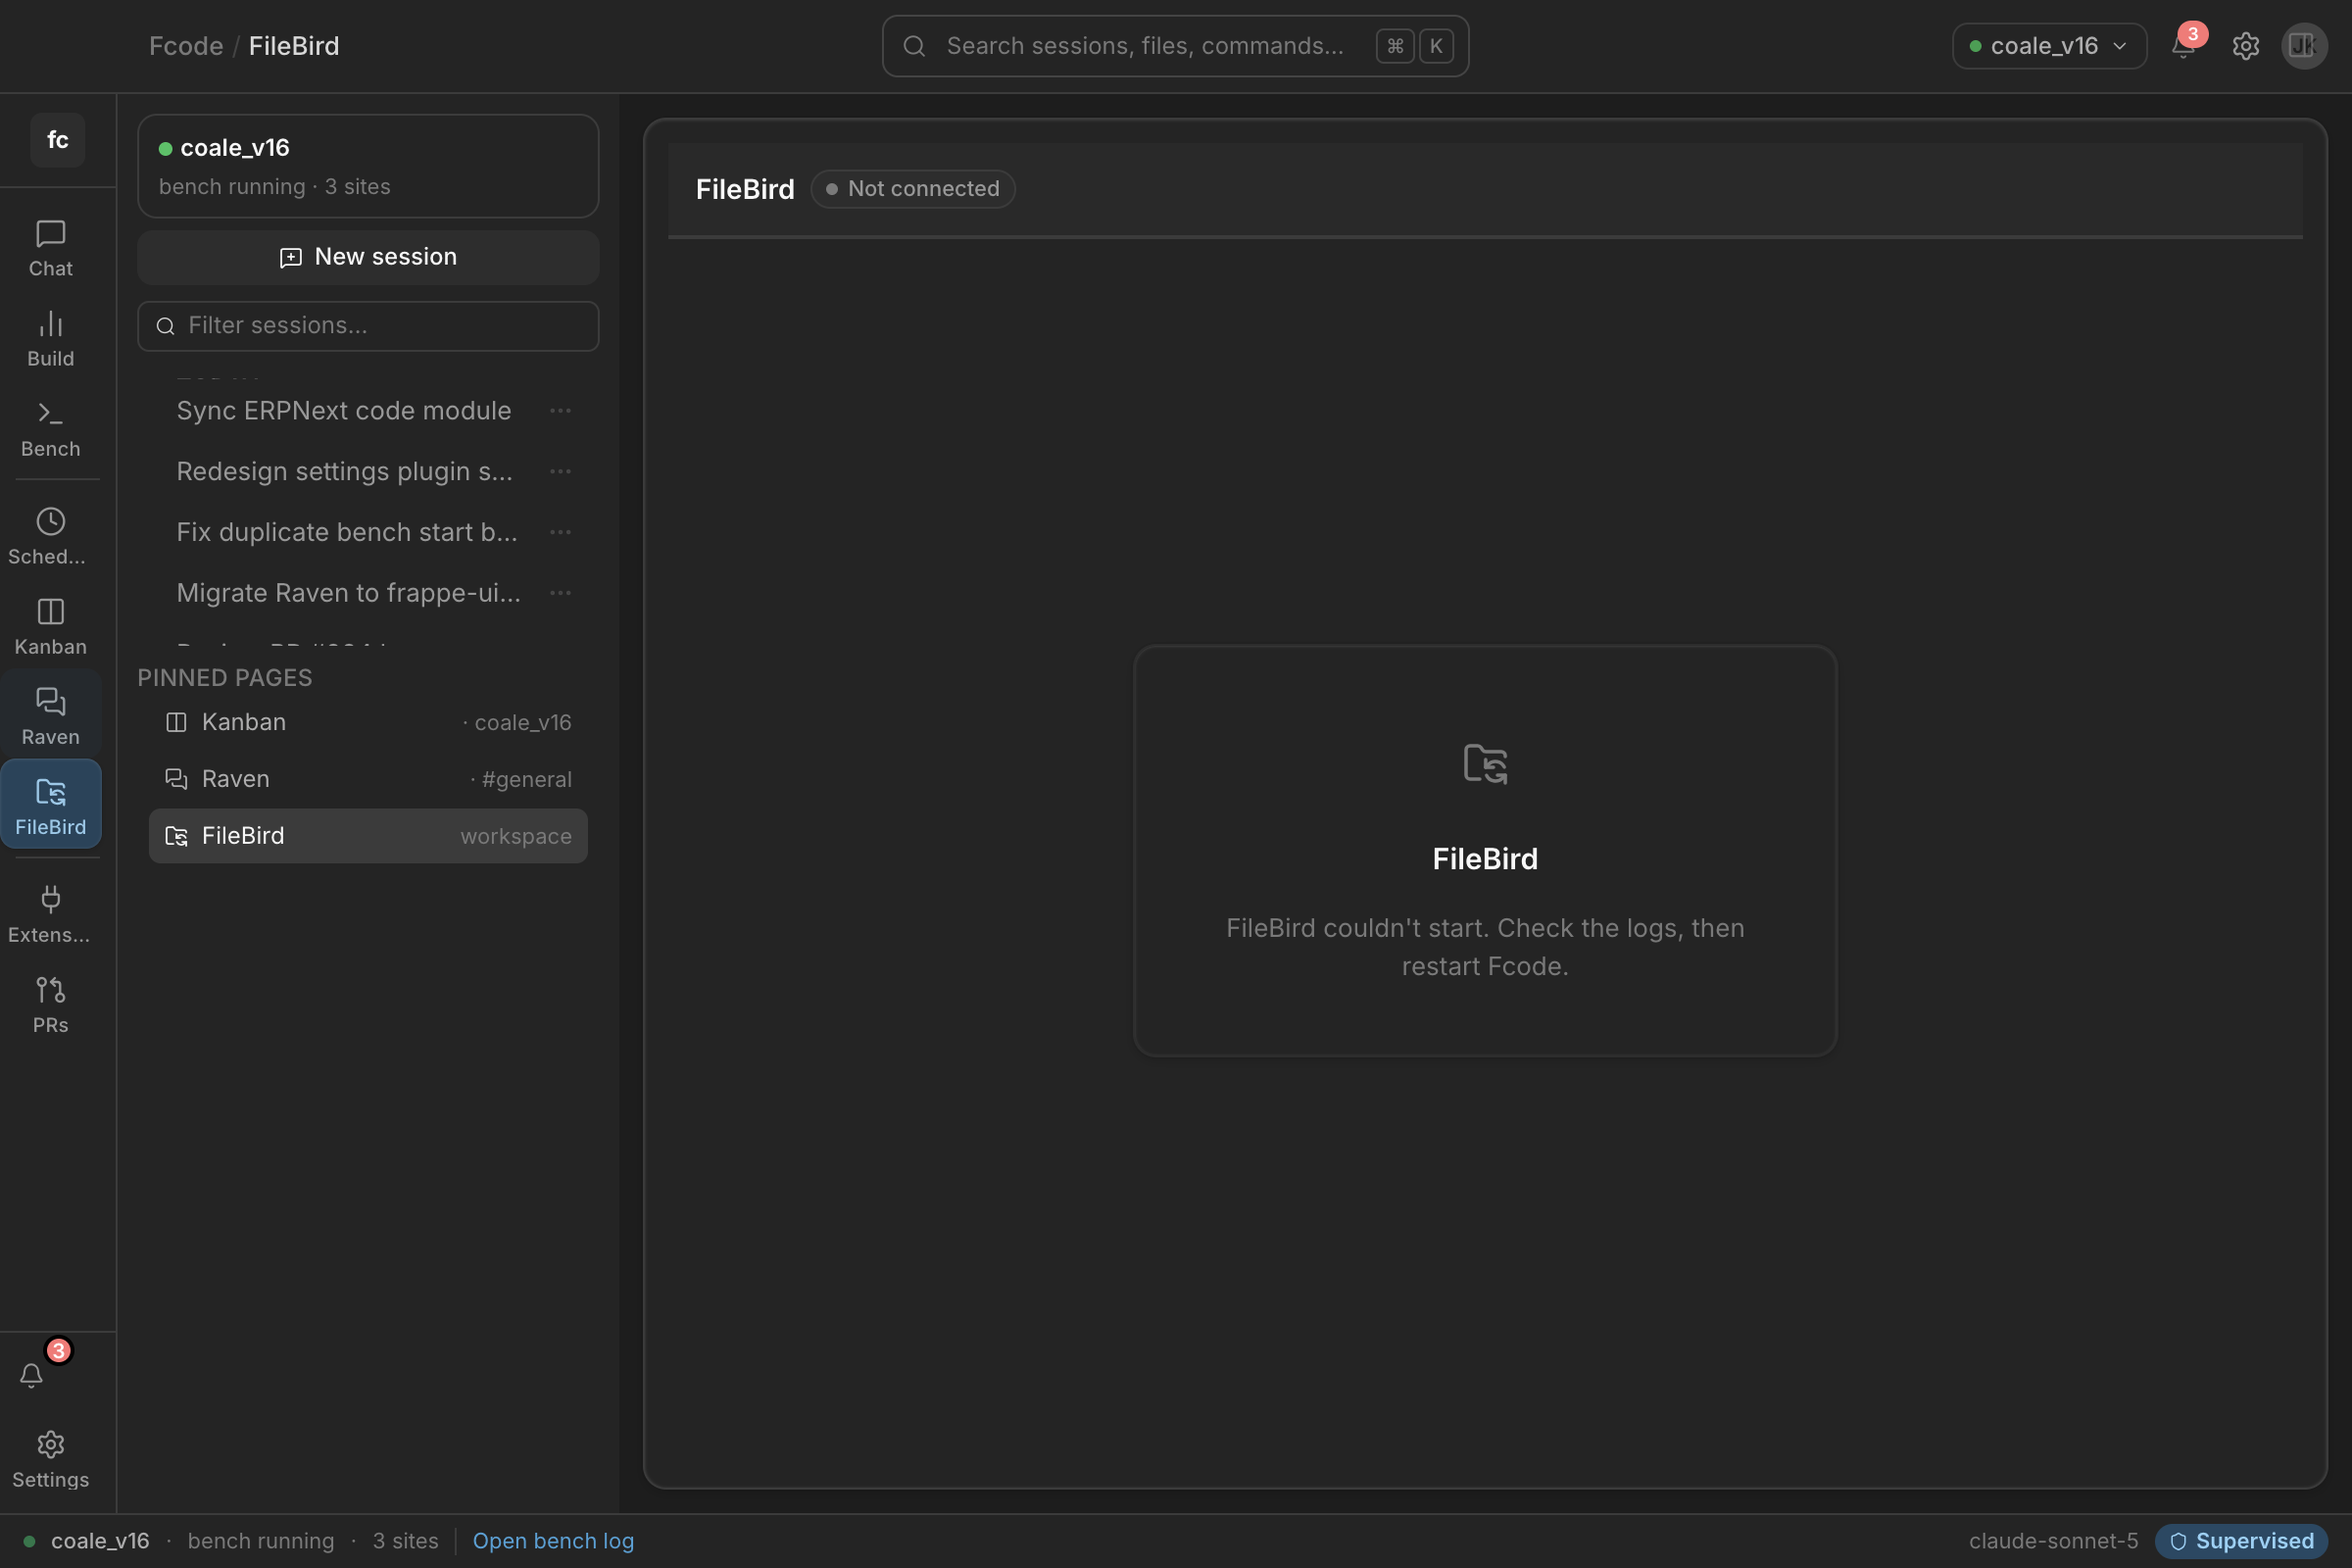
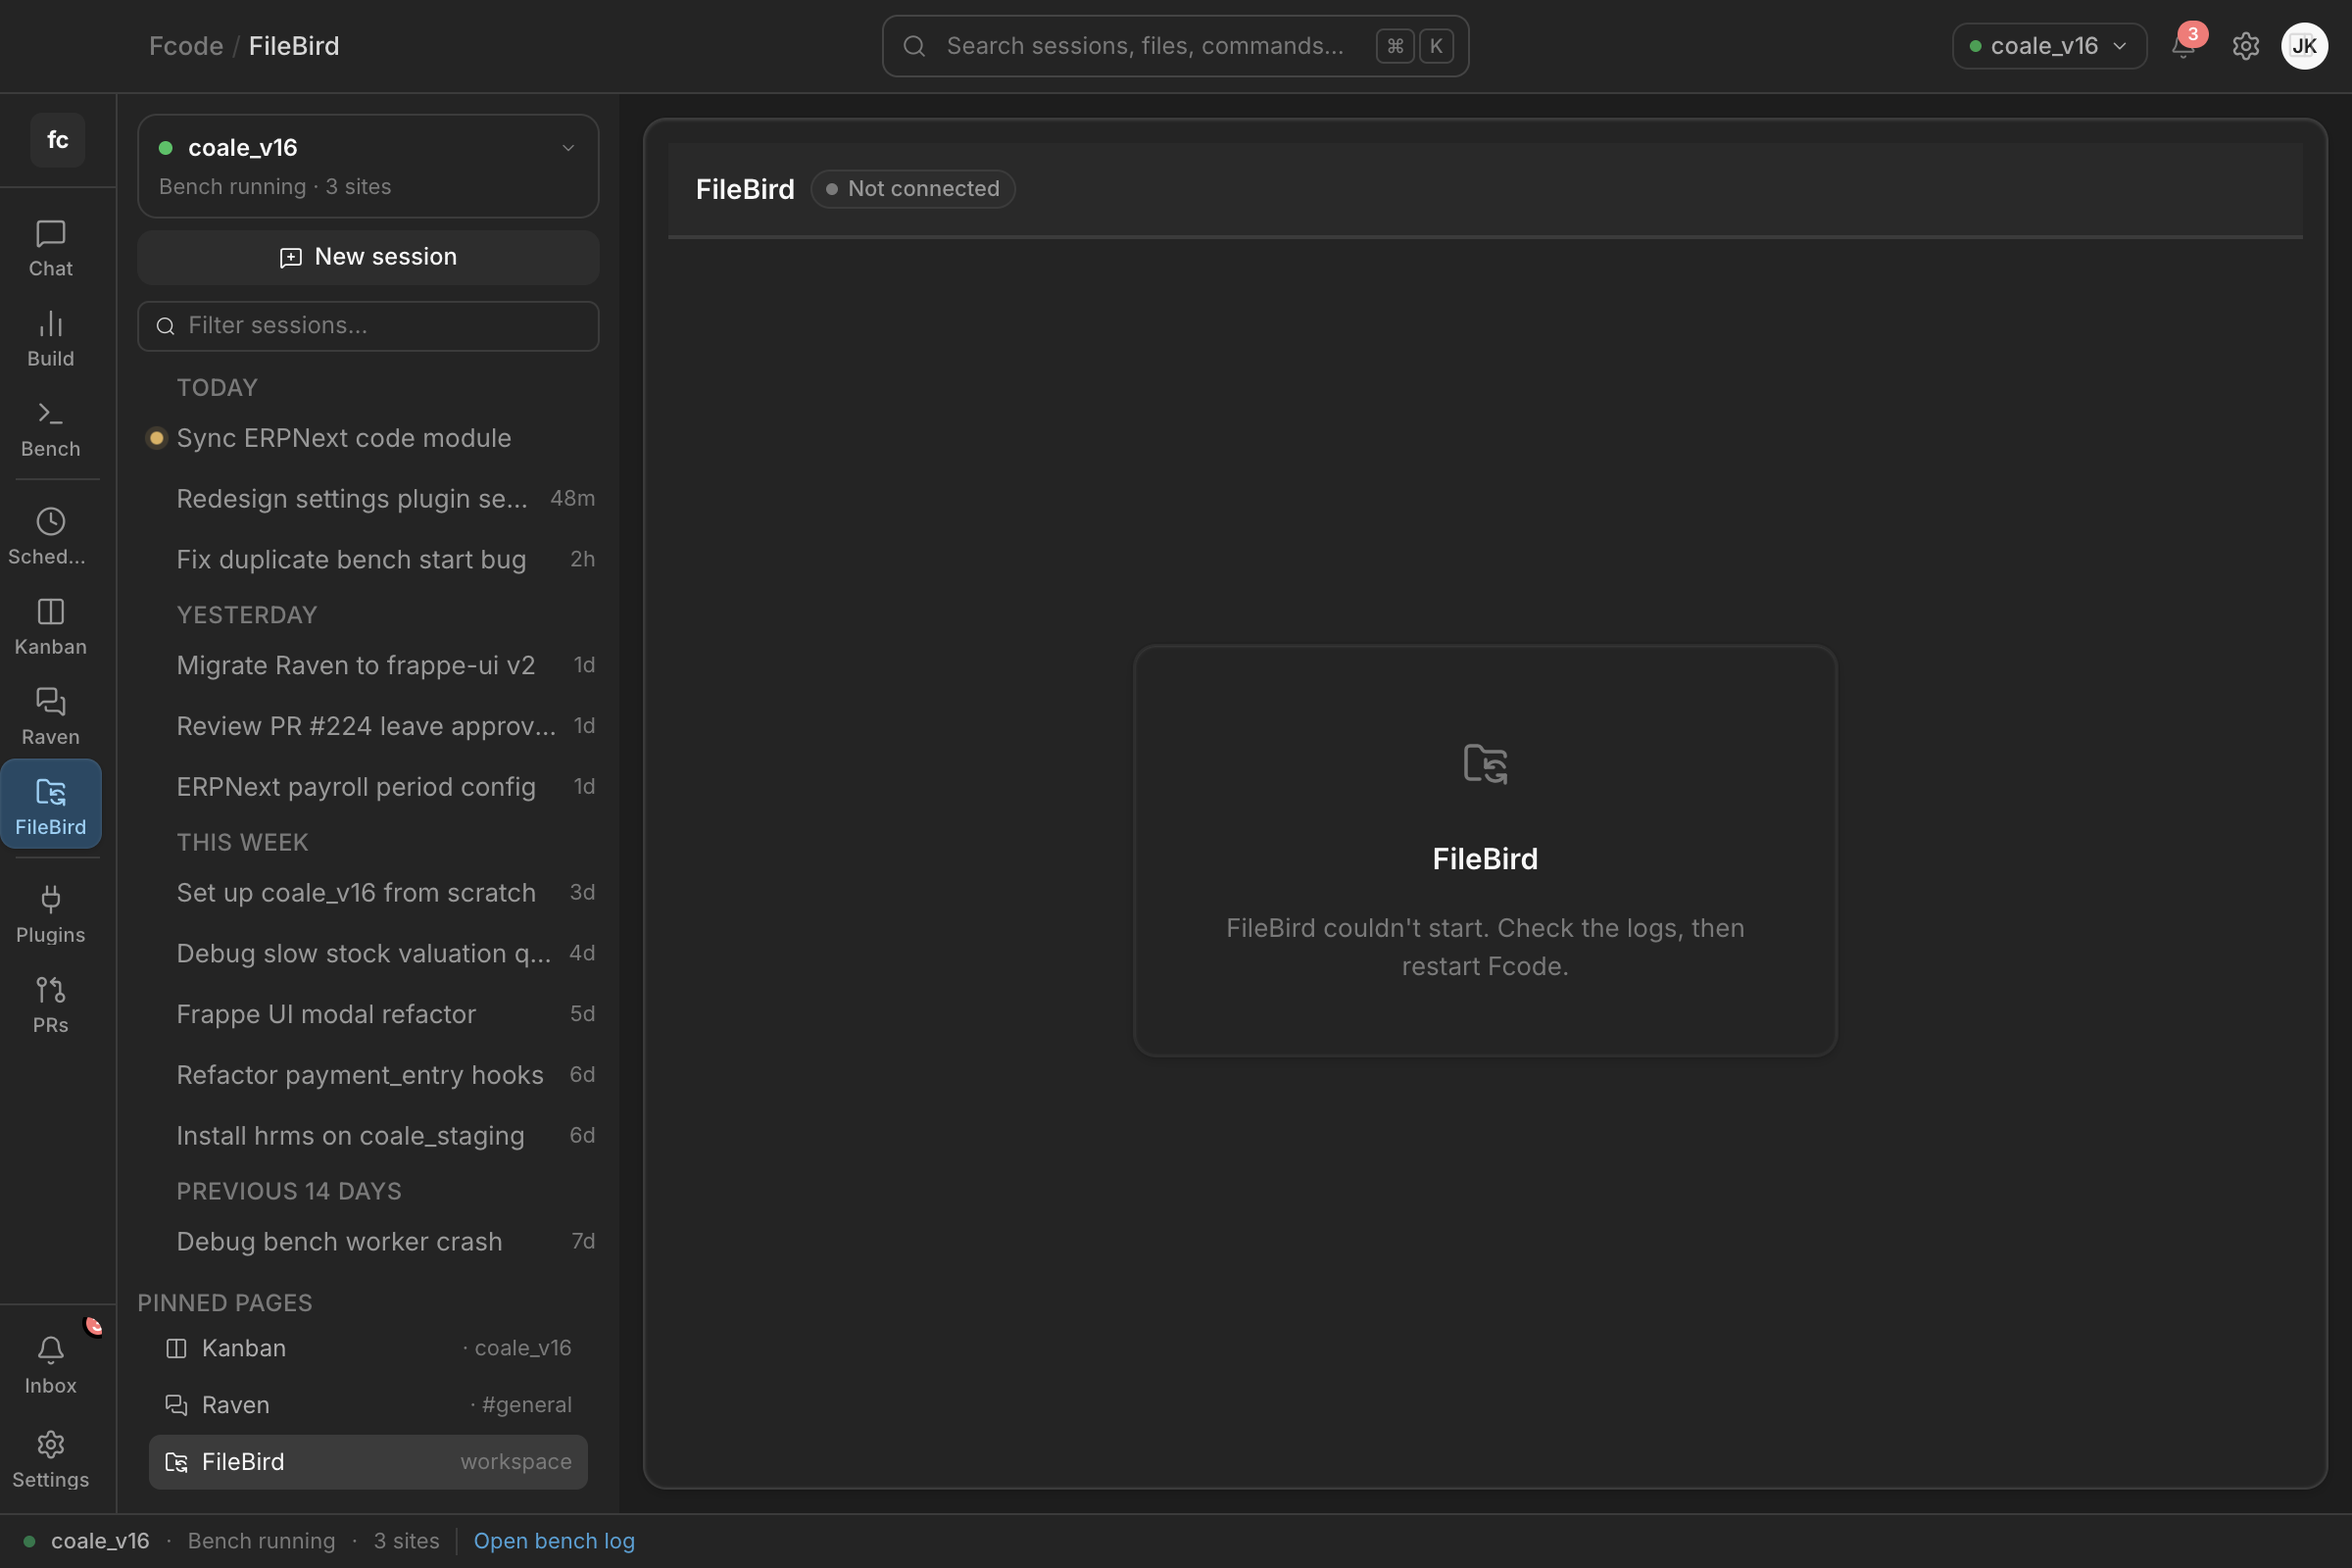
feat(island): D3 island sidebar chrome — post-merge polish
- renderer-api.ts: seedVisualState() adds pinned sessions (fixture-p1/p2/p3
  with pinned:true for Kanban/Raven/FileBird), userInitials:'JK',
  openProjectPaths:[], workspace:null; mk() accepts pinned flag
- d-shell-overrides.css: hide .sidebar-pinned-sessions in island mode
  (replaced by d3-sb-pinned-pages icon buttons); give standalone sessions
  flex:1 1 auto so TODAY/YESTERDAY/THIS WEEK groups fill the sidebar body
- shoot-island.mjs: rewritten to use seedVisualState() (sync, no IPC),
  createFakeBenchRoot() seeds 5 benches via FCODE_BENCH_ROOTS,
  correct waitForMainTarget excludes plugin-launcher, benchCoalePath interpolated
- 21 shots (11 light + 10 dark) all distinct, island layout confirmed

Verified: bench card coale_v16 + chevron + 'Bench running · 3 sites',
TODAY/YESTERDAY/THIS WEEK/PREVIOUS 14 DAYS session groups, timestamps
47m/2h/1d/3d-7d, PINNED PAGES Kanban·coale_v16/Raven·#general/FileBird·workspace,
rail labels Sched/Plugins/Inbox, JK avatar, no backend banner.
tsc: 0 renderer errors · i18n: 27/27

diff --git a/apps/desktop/src/capture/renderer-api.ts b/apps/desktop/src/capture/renderer-api.ts
@@ -163,15 +163,22 @@ export function installRendererApi(): () => void {
       const now = Date.now();
       const H = 3_600_000;
       const D = 86_400_000;
-      const mk = (id: string, title: string, ageMs: number) => ({
+      const mk = (id: string, title: string, ageMs: number, pinned = false) => ({
         id, title, source: "desktop" as const, modelId: "claude-sonnet-5",
         mode: "plan" as const, thinkingLevel: "off" as const, permissionMode: "ask" as const,
         messageCount: 0,
         updatedAt: new Date(now - ageMs).toISOString(),
         createdAt: new Date(now - ageMs).toISOString(),
-        pinned: false, archived: false,
+        pinned, archived: false,
       });
+      // Pinned page sessions first (sidebar PINNED PAGES section).
+      const pinnedSessions = [
+        mk("fixture-p1", "Kanban · coale_v16",  5 * D, true),
+        mk("fixture-p2", "Raven · #general",    5 * D, true),
+        mk("fixture-p3", "FileBird workspace",  5 * D, true),
+      ];
       const sessions = [
+        ...pinnedSessions,
         mk("fixture-s1",  "Sync ERPNext code module",           2 * 60_000),
         mk("fixture-s2",  "Redesign settings plugin section",   47 * 60_000),
         mk("fixture-s3",  "Fix duplicate bench start bug",      2 * H),
@@ -194,9 +201,12 @@ export function installRendererApi(): () => void {
         runningSessions: { "fixture-s1": true },
         page: "chat",
         chatUserName: "Josh Kim",
+        userInitials: "JK",
         kanbanEnabled: true,
         ravenEnabled: true,
         onboarding: undefined,
+        openProjectPaths: [],
+        workspace: null,
       });
     },
     showToast: (message, opts) => useAppStore.getState().showToast(message, opts),

diff --git a/apps/desktop/src/styles/d-shell-overrides.css b/apps/desktop/src/styles/d-shell-overrides.css
@@ -44,6 +44,15 @@
 /* ── D3 island: hide session-groups and sessions toolbar (replaced by d3-sb-header) ── */
 :root[data-nav-layout="island"] .sidebar-session-groups { display: none; }
 :root[data-nav-layout="island"] .sidebar-list-toolbar[data-sidebar-section="sessions"] { display: none; }
+/* D3 island: pinned thread rows replaced by d3-sb-pinned-pages icon buttons → hide the
+   duplicate .sidebar-pinned-sessions so sessions get the full middle space. */
+:root[data-nav-layout="island"] .sidebar-pinned-sessions { display: none; }
+/* D3 island: standalone session list fills the space between bench card and pinned pages. */
+:root[data-nav-layout="island"] .sidebar-standalone-sessions { flex: 1 1 auto; min-height: 0; }
+:root[data-nav-layout="island"] .sidebar-session-group-body.standalone {
+  max-height: none;
+  flex: 1 1 auto;
+}
 
 /* ── D3 island: bench card name row — flex so chevron floats right ── */
 :root[data-nav-layout="island"] .d3-sb-bench-name {
